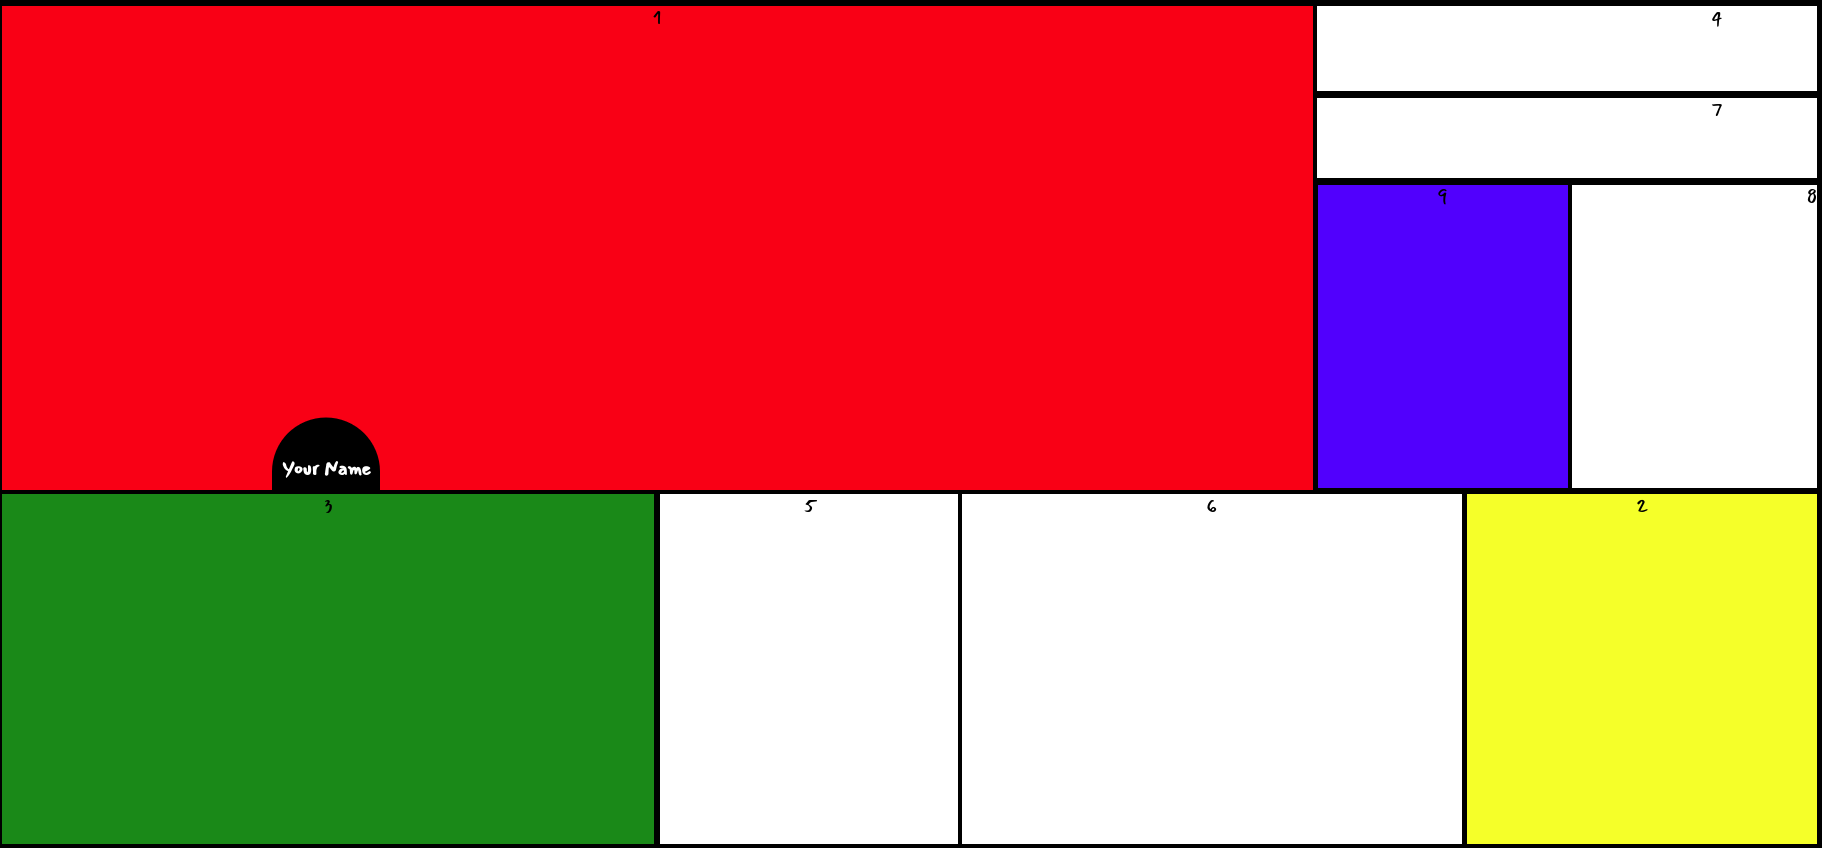
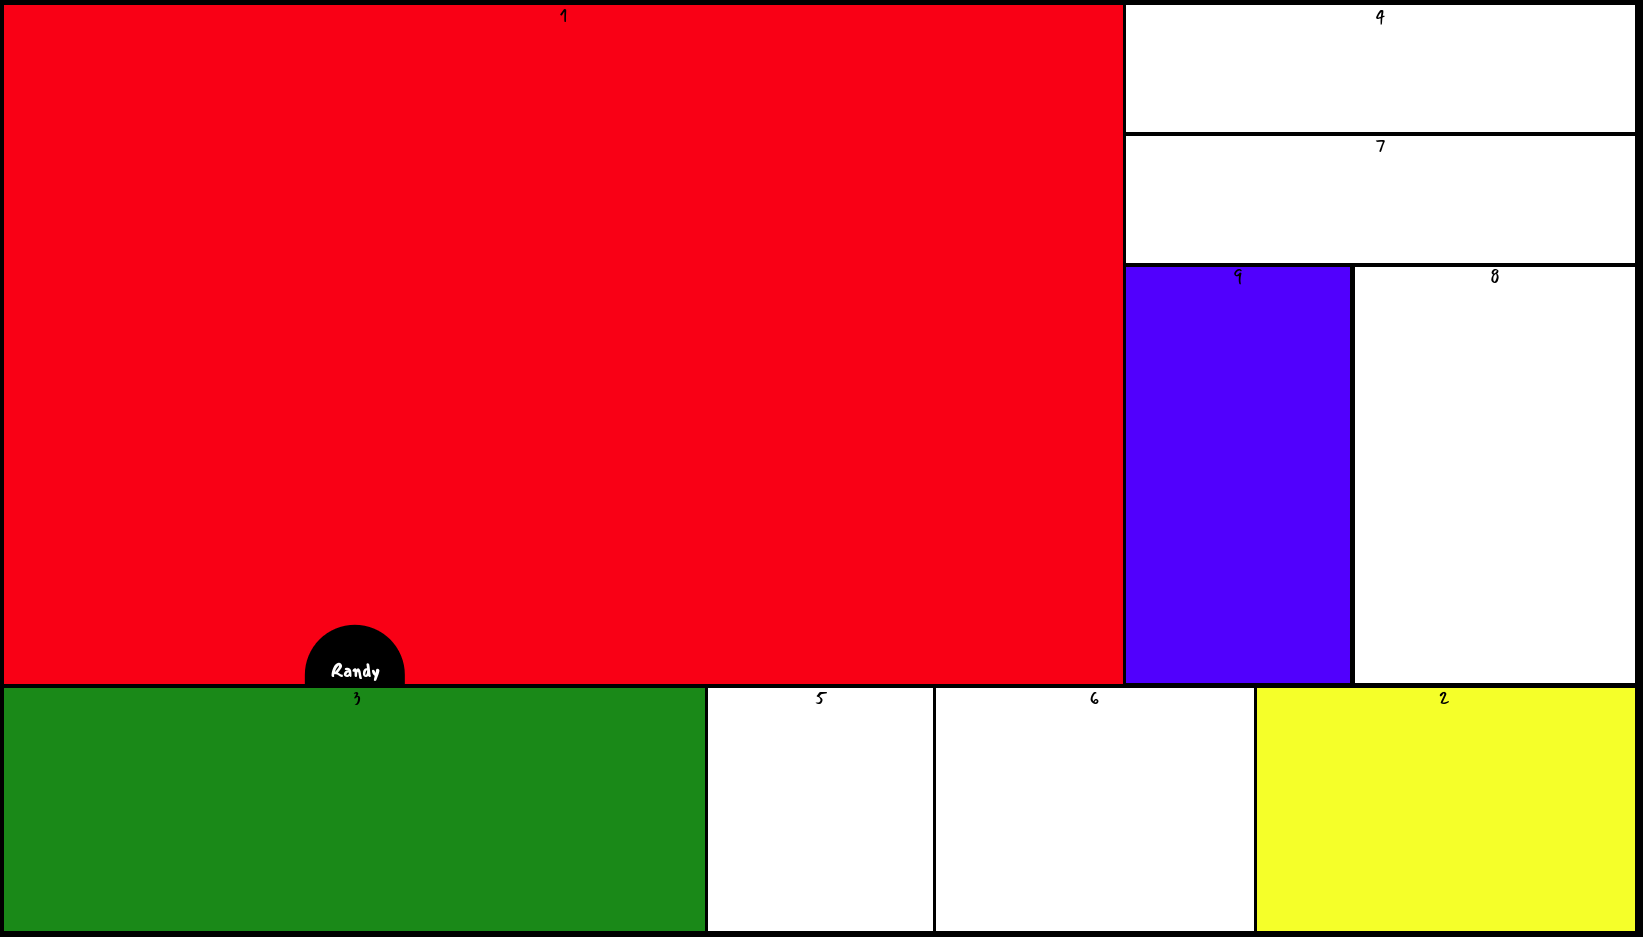
Added my name and retook picture

diff --git a/CSS/Project3/index.html b/CSS/Project3/index.html
@@ -20,6 +20,6 @@
     <div>7</div>
     <div>8</div>
     <div>9</div>
-    <div><p>Your Name</p></div>
+    <div><p>Randy</p></div>
   </body>
 </html>
